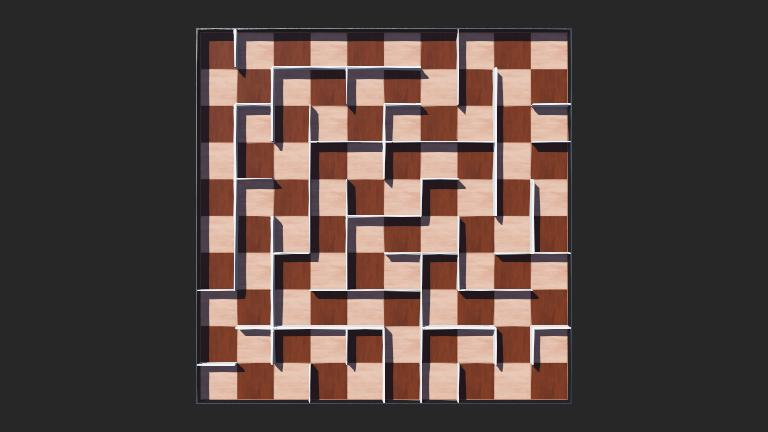
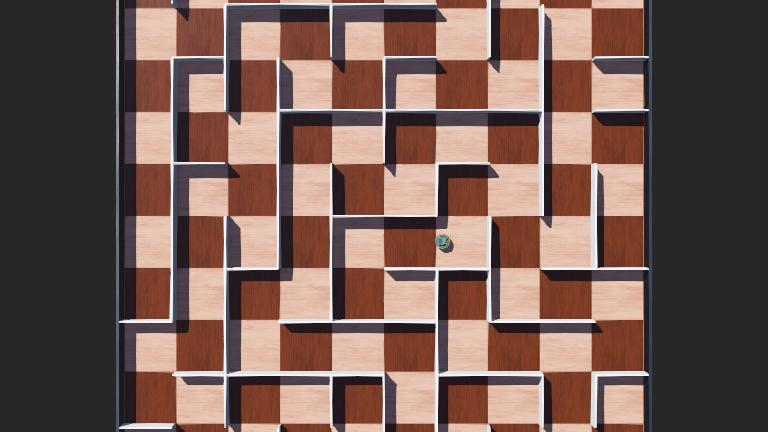
add controller

diff --git a/wall_follower_robot/controllers/thejan_controller_1/thejan_controller_1.py b/wall_follower_robot/controllers/thejan_controller_1/thejan_controller_1.py
@@ -1,0 +1,105 @@
+from controller import Robot, Camera
+
+# Constants
+TIME_STEP = 64
+MAX_SPEED = 6.28
+
+# Initialize robot
+robot = Robot()
+
+# Get devices
+left_motor = robot.getDevice('left wheel motor')
+right_motor = robot.getDevice('right wheel motor')
+left_motor.setPosition(float('inf'))
+right_motor.setPosition(float('inf'))
+left_motor.setVelocity(0.0)
+right_motor.setVelocity(0.0)
+
+# Enable proximity sensors
+sensors = []
+sensor_names = [
+    'ps0', 'ps1', 'ps2', 'ps3', 'ps4', 'ps5', 'ps6', 'ps7'
+]
+for name in sensor_names:
+    sensor = robot.getDevice(name)
+    sensor.enable(TIME_STEP)
+    sensors.append(sensor)
+
+# Enable camera
+camera = robot.getDevice('camera')
+camera.enable(TIME_STEP)
+
+# Helper function to check for obstacles
+def check_obstacles():
+    values = [sensor.getValue() for sensor in sensors]
+    front = values[0] > 100 or values[7] > 100  # Front sensors (ps0 and ps7)
+    left = values[5] > 100  # Left sensors (ps5)
+    right = values[2] > 100  # Right sensors (ps2)
+    return front, left, right
+
+# Helper function to identify colors
+def identify_color():
+    image = camera.getImage()
+    width = camera.getWidth()
+    height = camera.getHeight()
+
+    # Check the central pixel
+    r = camera.imageGetRed(image, width, width // 2, height // 2)
+    g = camera.imageGetGreen(image, width, width // 2, height // 2)
+    b = camera.imageGetBlue(image, width, width // 2, height // 2)
+
+    if r > 200 and g < 100 and b < 100:
+        return 'Red'
+    elif r < 100 and g > 200 and b < 100:
+        return 'Green'
+    elif r < 100 and g < 100 and b > 200:
+        return 'Blue'
+    elif r > 200 and g > 200 and b < 100:
+        return 'Yellow'
+    else:
+        return 'None'
+
+# Function to move the robot
+def move_forward():
+    left_motor.setVelocity(MAX_SPEED)
+    right_motor.setVelocity(MAX_SPEED)
+
+def turn_left():
+    left_motor.setVelocity(MAX_SPEED * 0.2)
+    right_motor.setVelocity(MAX_SPEED)
+
+def turn_right():
+    left_motor.setVelocity(MAX_SPEED)
+    right_motor.setVelocity(MAX_SPEED * 0.2)
+
+def stop():
+    left_motor.setVelocity(0)
+    right_motor.setVelocity(0)
+
+# Improved navigation algorithm
+def navigate_maze():
+    while robot.step(TIME_STEP) != -1:
+        front, left, right = check_obstacles()
+        color = identify_color()
+
+        # Print color detection
+        if color != 'None':
+            print(f"Color detected: {color}")
+
+        # Decision logic
+        if front:  # Obstacle ahead
+            if not right:  # Try turning right
+                turn_right()
+            elif not left:  # If right is blocked, turn left
+                turn_left()
+            else:  # Dead end, turn around
+                turn_left()
+                robot.step(TIME_STEP * 10)  # Give time to turn
+        else:
+            if left:  # Keep some distance from the left wall
+                turn_right()
+            else:  # Move forward if path is clear
+                move_forward()
+
+# Main loop
+navigate_maze()
